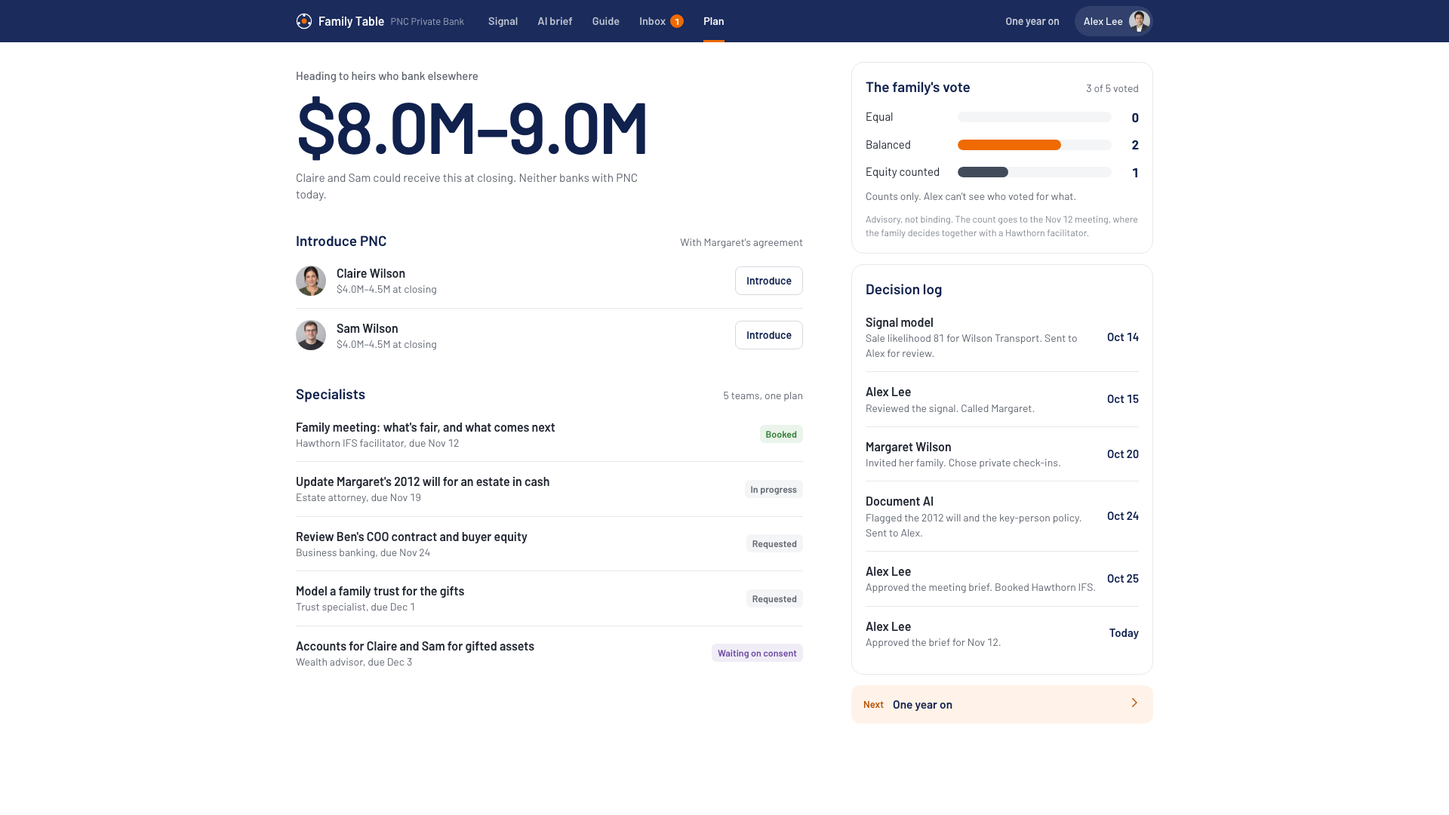
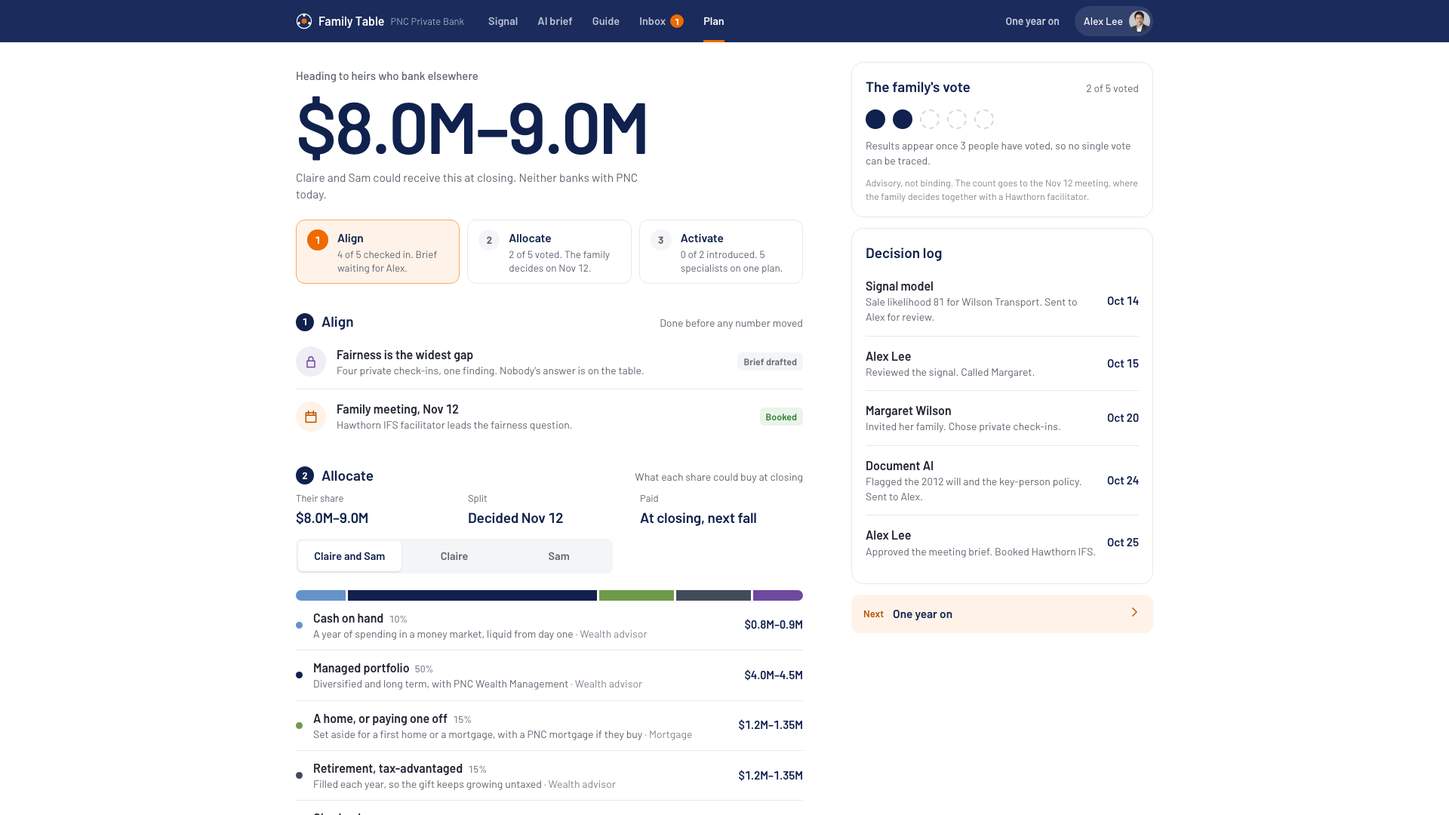
Documents in before the goals: one upload, AI reads, each fact lands in the plan
New me/margaret/docs screen ahead of setup. Eight documents land one by one,
six timed AI steps read them, the goals they feed fill as they go, and a
results panel hands off to the goals screen. Home, the preview and the tour
route through it; setup links back with "See what it read". Screenshot script
captures the empty and read states.

diff --git a/prototype/app.js b/prototype/app.js
@@ -16,7 +16,8 @@
   const fresh = () => ({ shared: [], optOut: false, approved: false, started: false, routed: {}, pick: "balanced", picked: {}, votes: {},
     answers: {}, intro: {}, invited: false, chapter: [], agreed: {}, msgs: [], replies: {}, drafts: {}, calls: {}, confirmed: {},
     shareReply: {}, tour: -1, pv: { value: 48, kids: 3, inBiz: 1 }, pvDocs: null, pvRead: false, pvFix: false, previewed: false, goals: ["fair", "live", "chapter"],
-    fairMeans: null, goalFix: {}, spend: 300, foundation: 2, keepName: false, tree: {}, pathSent: {}, presented: false });
+    fairMeans: null, goalFix: {}, spend: 300, foundation: 2, keepName: false, tree: {}, pathSent: {}, presented: false,
+    docsDone: false, docsNames: null, docsOwn: false });
   let state = fresh();
   try {
     const qp = new URLSearchParams(location.search);
@@ -29,7 +30,7 @@
   const set = patch => { Object.assign(state, patch); save(); render(); };
   // Preview: the documents are "read" (simulated) and the facts fill the screen; the person can fix any number.
   const readDocs = (names, own) => { Object.assign(state, { pvDocs: { names, own }, pvRead: true, previewed: true, pvFix: false, pv: Object.assign({}, S.preview.found) }); save(); render(true); };
-  const ui = { callOpen: false, slide: 0 };
+  const ui = { callOpen: false, slide: 0, intake: null };
   let sheet = { kind: null };
 
   // ---------- helpers ----------
@@ -179,7 +180,7 @@
       ? [["advisor", "Signal", "pulse"], ["advisor/align", "AI brief", "brief"], ["advisor/guide", "Guide", "guide"], ["advisor/inbox", "Inbox", "chat", n], ["advisor/plan", "Plan", "flag"]]
       : v ? [[`me/${v}`, "Home", "home"], [`me/${v}/checkin`, "Check-in", "lock"], [`me/${v}/options`, "Vote", "scale"], [`me/${v}/decide`, "Decide", "branch"], [`me/${v}/ask`, "Ask Alex", "chat"]] : [];
   }
-  const tabOf = r => r === "advisor/docs" ? "advisor/align" : r.replace(/\/vote$/, "/options").replace(/^(me\/\w+)\/(plan|setup)$/, "$1");
+  const tabOf = r => r === "advisor/docs" ? "advisor/align" : r.replace(/\/vote$/, "/options").replace(/^(me\/\w+)\/(plan|setup|docs)$/, "$1");
   function appbar() {
     const v = viewer(), who = v === "alex" ? `Alex Lee${avAlex(28)}` : v ? `${P[v].short}${av(P[v], 28)}` : `View as${ic("person", 18)}`;
     const cur = tabOf(route);
@@ -235,6 +236,8 @@
       hint: "PNC's own account data puts Wilson Transport at 81 out of 100, a year before closing. Tap Call Margaret.", target: '[data-act="start"]', done: () => state.started },
     { side: "Family", stage: "Align", route: "preview", title: "Margaret previews what's possible",
       hint: "Before she talks to anyone, she adds what she has and AI reads it. Tap Use the Wilsons' documents.", target: '[data-act="pv-sample"]', done: () => state.pvRead },
+    { side: "Family", stage: "Align", route: "me/margaret/docs", title: "Her documents go in. AI reads them.",
+      hint: "Eight documents, one upload. AI reads each one and connects it to a goal before she answers a single question. Tap Use the Wilsons' documents.", target: '[data-act="docs-go"]', done: () => state.docsDone },
     { side: "Family", stage: "Align", route: "me/margaret/setup", title: "Margaret sets her goals",
       hint: "AI ranked three goals from her documents and pre-filled each one. Margaret checks them and invites the family.", target: '[data-act="invite"]', done: () => state.invited },
     { side: "Family", stage: "Align", route: "me/claire/checkin", title: "Claire says what she's never said",
@@ -303,8 +306,11 @@
       <div class="caption">${pid === "ben" ? "In cash, plus your $1.5M of NorthPeak equity. " : ""}It depends on the split the family chooses. Closing is expected next fall.</div>`;
   }
   function invitePanel() {
-    if (!state.invited) return `<section class="panel invite"><span class="ic p">${ic("users")}</span><div><b>Set your goals, then bring your family in</b><p>Tom, Ben, Claire and Sam each get a private check-in. You'll see who has answered, never what they said.</p>
-      <a class="btn" href="#/me/margaret/setup">Set up your plan</a></div></section>`;
+    if (!state.invited) return state.docsDone
+      ? `<section class="panel invite"><span class="ic p">${ic("users")}</span><div><b>Your documents are read. Now set your goals</b><p>AI ranked three goals from them and pre-filled each one. Check them, then Tom, Ben, Claire and Sam each get a private check-in.</p>
+      <a class="btn" href="#/me/margaret/setup">Set up your plan</a></div></section>`
+      : `<section class="panel invite"><span class="ic p">${ic("doc")}</span><div><b>Add your documents, then set your goals</b><p>AI reads your statements, the offer, the register and your will, and fills in the plan. Then your family gets private check-ins.</p>
+      <a class="btn" href="#/me/margaret/docs">Add your documents</a></div></section>`;
     return `<section class="panel invite on"><div><b>Your family is taking part</b><p>${checkedIn()} of ${S.people.length} have checked in. Their answers stay private, even from you.</p>${voices()}</div></section>`;
   }
   function memberHome(pid) {
@@ -625,9 +631,80 @@
         <section class="panel"><div class="section-head"><h2>What changes with Family Table</h2></div>
           <div class="cmp"><div class="cmp-h"><span></span><span>Without a plan</span><span>With Family Table</span></div>${X.compare.map(([k, a, b]) => `<div class="cmp-r"><b>${k}</b><span>${a}</span><span>${b}</span></div>`).join("")}</div></section>
         <section class="panel"><div class="section-head"><h2>Your first month</h2></div><ol class="recap">${X.month.map(([w, t]) => `<li><span class="rc-ic">${ic("check", 14, 2.6)}</span><span class="tx"><b>${w}</b><span>${t}</span></span></li>`).join("")}</ol>
-          <a class="btn block" style="margin-top:14px" href="#/me/margaret/setup">Start with a PNC advisor</a></section>
+          <a class="btn block" style="margin-top:14px" href="#/me/margaret/docs">Start with a PNC advisor</a></section>
         <p class="micro faint">Illustrative ranges from a deal like the Wilsons'. A PNC tax specialist confirms real figures.</p>
       </aside></div></div>`;
+  }
+
+  // ---------- onboarding, step 0: documents in, AI reads, everything lands in the plan ----------
+  // Three states: nothing added yet; a timed run (ui.intake) that marks each document and each AI step in the DOM
+  // without re-rendering; and done (state.docsDone), which draws the same page with every mark already on.
+  let intakeTimers = [];
+  const stopIntake = () => { intakeTimers.forEach(clearTimeout); intakeTimers = []; ui.intake = null; };
+  const DOC_ROUTE = "me/margaret/docs";
+  function intakePage() {
+    const X = S.intake, run = ui.intake, done = state.docsDone, active = run || done;
+    const names = done ? state.docsNames : run ? run.names : null, own = done ? state.docsOwn : run ? run.own : false;
+    const docs = X.docs.map((d, i) => Object.assign({}, d, { name: names && names[i] ? names[i] : d.name }));
+    const readCount = done ? docs.length : 0;
+    const row = (d, i) => `<div class="dk-row ${done ? "up read" : ""} ${d.risk ? "flag" : ""}" data-doc="${i}" data-step="${d.step}" data-feeds="${d.feeds.join(" ")}">
+        <span class="file ${d.type.toLowerCase()}">${d.type}</span>
+        <span class="tx"><b>${esc(d.name)}</b><span class="dk-st">${done ? "Read" : d.src || "Waiting"}${d.pages ? ` · ${d.pages} pages` : ""}</span>
+          <span class="dk-bar" aria-hidden="true"><i></i></span>
+          <span class="dk-find">${d.finding}${d.risk ? ` <span class="badge r">${d.risk}</span>` : ""}</span></span>
+        <span class="dk-ic">${ic("check", 16, 2.6)}<span class="spin"></span></span></div>`;
+    const feedRow = f => { const mine = docs.filter(d => d.feeds.includes(f.id)).length;
+      return `<div class="row ${done ? "on" : ""}" data-feed="${f.id}" data-n="${mine}"><span class="ic">${ic(f.icon)}</span><span class="tx"><b>${f.label}</b><span>${f.line}</span></span><span class="rt">${done ? "Ready" : `0 of ${mine}`}</span></div>`; };
+    const dropzone = `<div class="pv-drop">
+          <label class="pv-drop-in" for="dk-files">${ic("doc", 26)}<b>Add what you have</b><span>Statements, the buyer's letter, the shareholder register, your will, any policy. Drop them all at once; AI sorts them.</span></label>
+          <input type="file" id="dk-files" multiple data-act="docs-files" class="visually-hidden">
+          <button class="btn block" data-act="docs-go">Use the Wilsons' documents</button></div>`;
+    return `<div class="page"><div class="cols"><div class="col-main">
+      <section class="hero"><div class="label">Before you set your goals</div><h1 class="title">${done ? "Your documents are read" : active ? "AI is reading your documents" : "Add your financial documents"}</h1>
+        <div class="caption">${done ? `${docs.length} documents, ${docs.reduce((s, d) => s + d.pages, 0)} pages. Every number below has a source. Check them, then set your goals.` : "AI reads them, pulls out the facts, and connects each one to your plan before you answer a single question. You check the result; nothing is decided for you."}</div>
+        ${!active ? dropzone : `${own ? `<p class="micro faint" style="margin-top:8px">Your files stayed on this device. In the prototype, AI reads the Wilsons' sample set instead.</p>` : ""}
+          ${done ? `<button class="linkbtn" data-act="docs-reset">Start over with other documents</button>` : ""}`}</section>
+      ${!active ? `<section class="section"><div class="pv-empty">Add your documents, or use the Wilsons', and watch AI read them: what each one says, and which goal it feeds.</div></section>` : `
+      <section class="section"><div class="section-head"><h2>Your documents</h2><span class="aside" data-dk-count>${readCount} of ${docs.length} read</span></div>
+        <div class="dk-list">${docs.map(row).join("")}</div></section>
+      <section class="section trace-wrap"><div class="section-head"><h2>What AI is doing</h2><span class="aside">Simulated AI, real formulas</span></div>
+        <ol class="trace dk-trace ${done ? "" : "playing"}">${X.steps.map(([t, b], k) => step(k, t, `<p>${b}</p>`, done ? "on" : "")).join("")}</ol></section>
+      ${done ? `<section class="section"><div class="section-head"><h2>What reached your plan</h2><span class="aside">From the documents</span></div>
+        <div class="rows">${[["What you keep at closing", money(net()), "Offer, less earnout, debt, fees and estimated tax"], ["Could go to the children", money(12), "Your plan's gift bucket, before the family decides the split"], ["Ben's buyer equity", money(1.5), "Shareholder register. The will doesn't say if it counts"], ["What you spend a year", "$300K", "Personal tax returns. Your $9.0M live-on bucket covers 30 years"]].map(([k, v, src]) => `<div class="row"><span class="ic g">${ic("check", 18, 2.4)}</span><span class="tx"><b>${k}</b><span>${src}</span></span><span class="rt">${v}</span></div>`).join("")}</div>
+        <div class="docrow"><span class="file">PDF</span><span class="tx"><b>3 documents need a specialist</b><span>The 2012 will, the key-person policy and the 2009 buy-sell agreement. Alex routes them; you'll see each one's finding in the AI brief.</span></span><span class="badge r">Flagged</span></div>
+        <a class="btn block dk-cta" href="#/me/margaret/setup">Continue to your goals</a>
+        <p class="micro faint" style="margin-top:10px">AI ranked three goals from these documents and pre-filled each one. The next screen is where you check them.</p></section>` : ""}`}
+      </div><aside class="col-side">
+        <section class="panel dk-feeds"><div class="section-head"><h2>Where each document goes</h2></div><div class="rows">${X.feeds.map(feedRow).join("")}</div>
+          <p class="micro faint" style="margin-top:8px">Your documents go to Alex at PNC, and only Alex. Your family sees the options they lead to, never the documents.</p></section>
+        ${!active ? `<section class="panel"><div class="section-head"><h2>Why documents first</h2></div><ol class="recap">${[["Fewer questions", "AI fills in what the paperwork already says. You confirm, instead of typing it twice."], ["Goals with numbers", "Each goal arrives pre-filled from your own figures, not a guess."], ["Problems found early", "An old will or a lapsed policy surfaces now, not at closing."]].map(([t, b]) => `<li><span class="rc-ic">${ic("check", 14, 2.6)}</span><span class="tx"><b>${t}</b><span>${b}</span></span></li>`).join("")}</ol></section>` : ""}
+      </aside></div></div>`;
+  }
+  // Timed run: uploads land one by one, then each AI step reads its documents and fills the goals it feeds.
+  function runIntake(names, own) {
+    stopIntake();
+    const X = S.intake; ui.intake = { names: X.docs.map((d, i) => names && names[i] ? names[i] : d.name), own };
+    render(); window.scrollTo({ top: 0, behavior: motionOK ? "smooth" : "auto" });
+    const T = ms => motionOK ? ms : 0, at = (ms, fn) => intakeTimers.push(setTimeout(() => { if (ui.intake && route === DOC_ROUTE) fn(); }, T(ms)));
+    const rows = () => [...app.querySelectorAll(".dk-row")], steps = () => [...app.querySelectorAll(".dk-trace .tr-step")];
+    const upGap = 320, upLen = 760, stepGap = 1500, stepLen = 1100, t1 = 300 + X.docs.length * upGap + upLen;
+    let readN = 0;
+    const markRead = el => { el.classList.add("read"); el.querySelector(".dk-st").textContent = "Read" + el.querySelector(".dk-st").textContent.replace(/^[^·]*/, "");
+      readN++;
+      const c = app.querySelector("[data-dk-count]"); if (c) c.textContent = `${readN} of ${X.docs.length} read`;
+      el.dataset.feeds.split(" ").forEach(f => { const fr = app.querySelector(`[data-feed="${f}"]`); if (!fr) return;
+        const got = rows().filter(r => r.classList.contains("read") && r.dataset.feeds.split(" ").includes(f)).length, all = +fr.dataset.n;
+        fr.querySelector(".rt").textContent = got >= all ? "Ready" : `${got} of ${all}`; fr.classList.toggle("on", got >= all); }); };
+    X.docs.forEach((d, i) => {
+      at(300 + i * upGap, () => { const el = rows()[i]; if (!el) return; el.classList.add("up"); el.querySelector(".dk-st").textContent = (d.src ? "Pulling from PNC" : "Uploading") + (d.pages ? ` · ${d.pages} pages` : ""); });
+      at(300 + i * upGap + upLen, () => { const el = rows()[i]; if (el) el.querySelector(".dk-st").textContent = (d.src ? "In from PNC" : "Uploaded, encrypted") + (d.pages ? ` · ${d.pages} pages` : ""); });
+    });
+    X.steps.forEach((s, k) => {
+      at(t1 + k * stepGap, () => { const el = steps()[k]; if (!el) return; el.classList.add("run"); if (k > 0 && el.getBoundingClientRect().bottom > innerHeight - 160) el.scrollIntoView({ block: "center", behavior: "smooth" }); });
+      at(t1 + k * stepGap + stepLen, () => { const el = steps()[k]; if (!el) return; el.classList.remove("run"); el.classList.add("on");
+        rows().forEach(r => { if (+r.dataset.step === k && !r.classList.contains("read")) markRead(r); }); });
+    });
+    at(t1 + X.steps.length * stepGap + 400, () => { const names = ui.intake.names, o = ui.intake.own; stopIntake(); set({ docsDone: true, docsNames: names, docsOwn: o }); setTimeout(() => { const c = app.querySelector(".dk-cta"); if (c) c.scrollIntoView({ block: "center", behavior: "smooth" }); }, 80); });
   }
 
   // ---------- onboarding: confirm the facts, choose and sharpen goals ----------
@@ -670,7 +747,7 @@
           ["Read your documents and the preview", `Three years of statements, the shareholder register and NorthPeak's letter. ${money(net())} at closing; ${money(12)} of it could go to the children.`],
           ["Ranked your goals", "Fairness first: one child stays with the buyer and two don't. Then what you live on, then what comes after 35 years of running the company."],
           ["Pre-filled each one", "From the numbers, not from guesses. Change any of them below."],
-        ].map(([t, b], k) => step(k, t, `<p>${b}</p>`)).join("")}</ol></section>
+        ].map(([t, b], k) => step(k, t, `<p>${b}${k === 0 ? ` <a href="#/me/margaret/docs">See what it read</a>` : ""}</p>`)).join("")}</ol></section>
       <section class="section recs"><div class="section-head"><h2>What AI recommends</h2><span class="aside">${sel.length} goals, in order</span></div>
         <div class="rec-list">${cards}</div>
         ${others.length ? `<p class="rf-q" style="margin-top:14px">Also considered. Tap one to add it; with three already picked, it takes third place.</p><div class="goals">${others.map(x => `<button class="goal" data-act="goal" data-id="${x.id}" aria-pressed="false"><span class="g-n">${ic(x.icon, 18)}</span><b>${x.label}</b></button>`).join("")}</div>` : ""}</section>
@@ -846,7 +923,7 @@
     else if (route === "year-one") html = yearOne();
     else if (route === "preview") html = previewPage();
     else if (v === "alex") html = ({ advisor: advSignal, "advisor/align": advAI, "advisor/docs": advAI, "advisor/inbox": advInbox, "advisor/plan": advPlan, "advisor/guide": advGuide }[route] || advSignal)();
-    else if (v) html = sub === "checkin" ? checkin(v) : sub === "options" || sub === "vote" ? options(v) : sub === "ask" ? askAlex(v) : sub === "plan" ? famPlan(v) : sub === "decide" ? decide(v) : sub === "setup" && v === "margaret" ? setupPage() : memberHome(v);
+    else if (v) html = sub === "checkin" ? checkin(v) : sub === "options" || sub === "vote" ? options(v) : sub === "ask" ? askAlex(v) : sub === "plan" ? famPlan(v) : sub === "decide" ? decide(v) : sub === "setup" && v === "margaret" ? setupPage() : sub === "docs" && v === "margaret" ? intakePage() : memberHome(v);
     else { html = splash(); bare = true; route = ""; }
     document.body.classList.toggle("story", route.startsWith("story/"));
     document.body.classList.toggle("onboarding", route === "");
@@ -892,6 +969,8 @@
     else if (a === "call" && v) { ui.callOpen = false; set({ calls: Object.assign({}, state.calls, { [v]: S.slots[+id] }) }); }
     else if (a === "confirm-call") set({ confirmed: Object.assign({}, state.confirmed, { [id]: true }) });
     else if (a === "pv-sample") readDocs(S.preview.docs, false);
+    else if (a === "docs-go") runIntake(null, false);
+    else if (a === "docs-reset") { stopIntake(); set({ docsDone: false, docsNames: null, docsOwn: false }); }
     else if (a === "pv-fix") set({ pvFix: !state.pvFix });
     else if (a === "pv-reset") set({ pvRead: false, pvDocs: null, pvFix: false });
     else if (a === "pv-kids") { const k = +id; set({ previewed: true, pv: Object.assign({}, state.pv, { preset: null, kids: k, inBiz: Math.min(state.pv.inBiz, k) }) }); }
@@ -932,11 +1011,12 @@
   document.addEventListener("change", e => {
     const el = e.target;
     if (el.dataset.act === "pv-value") { const y = scrollY; state.pv = Object.assign({}, state.pv, { value: +el.value }); state.previewed = true; save(); render(); scrollTo(0, y); }
+    if (el.dataset.act === "docs-files") { const names = [...el.files].map(f => f.name).slice(0, 8); runIntake(names.length ? names : null, names.length > 0); }
     if (el.dataset.act === "pv-files") { const names = [...el.files].map(f => f.name).slice(0, 6); readDocs(names.length ? names : S.preview.docs, names.length > 0); }
   });
   document.addEventListener("keydown", e => { if (e.key === "Escape" && sheet.kind) { sheet.kind = null; renderSheet(); } });
   window.addEventListener("hashchange", () => {
-    sheet.kind = null; ui.callOpen = false;
+    sheet.kind = null; ui.callOpen = false; if (ui.intake) stopIntake();
     const go = () => { render(true); window.scrollTo(0, 0); };
     if (motionOK && document.startViewTransition) document.startViewTransition(go); else go();
   });

diff --git a/prototype/styles.css b/prototype/styles.css
@@ -766,3 +766,39 @@ ul.pz-list { list-style: none; padding: 0; }
 .rec-edit .linkbtn.small { display: block; margin-top: 10px; font-size: 13.5px; min-height: 40px; }
 .rec-edit .seg { margin-top: 10px; background: var(--bg); }
 .rec-edit .seg button.on { background: var(--navy); color: #fff; box-shadow: none; }
+
+/* ---------- document intake: files land, AI reads, goals fill ---------- */
+.dk-list { display: grid; gap: 8px; margin-top: 10px; }
+.dk-row { display: flex; gap: 12px; align-items: flex-start; padding: 12px; border-radius: var(--r); border: 1px solid var(--line); background: var(--bg); transition: border-color .35s ease, background-color .35s ease; }
+.dk-row .file { background: var(--slate); }
+.dk-row .file.pnc { background: var(--navy); }
+.dk-row .file.scan { background: var(--purple); }
+.dk-row.flag.read .file { background: var(--neg); }
+.dk-row .tx { flex: 1; min-width: 0; }
+.dk-row .tx b { display: block; font-size: 15.5px; color: var(--text); overflow: hidden; text-overflow: ellipsis; white-space: nowrap; }
+.dk-st { display: block; font-size: 13.5px; color: var(--faint); margin-top: 2px; }
+.dk-row.up .dk-st { color: var(--sub); }
+.dk-bar { display: block; height: 5px; border-radius: 3px; background: var(--surface); margin-top: 8px; overflow: hidden; }
+.dk-bar i { display: block; height: 100%; width: 0; border-radius: 3px; background: var(--orange); transition: width .75s var(--ease), background-color .3s ease; }
+.dk-row.up .dk-bar i { width: 100%; }
+.dk-row.read .dk-bar i { background: var(--pos); }
+.dk-find { display: block; font-size: 14px; color: var(--sub); margin-top: 8px; line-height: 1.4; max-height: 0; opacity: 0; overflow: hidden; transform: translateY(4px); transition: opacity .45s ease, transform .45s var(--ease), max-height .45s var(--ease), margin-top .3s ease; }
+.dk-row:not(.read) .dk-find { margin-top: 0; }
+.dk-row.read .dk-find { max-height: 6em; opacity: 1; transform: none; }
+.dk-find .badge { margin-left: 4px; vertical-align: 1px; }
+.dk-row.read { border-color: transparent; background: var(--surface); }
+.dk-row.flag.read { background: var(--neg-50); }
+.dk-ic { width: 28px; height: 28px; border-radius: 50%; display: grid; place-items: center; flex: none; background: var(--surface); color: var(--faint); margin-top: 6px; transition: background-color .3s ease, color .3s ease; }
+.dk-ic > * { grid-area: 1 / 1; }
+.dk-ic svg { display: none; }
+.dk-ic .spin { width: 14px; height: 14px; }
+.dk-row.up:not(.read) .dk-ic { background: var(--orange-50); color: var(--orange); }
+.dk-row.up:not(.read) .dk-ic .spin { display: block; }
+.dk-row.read .dk-ic { background: var(--pos-50); color: var(--pos); }
+.dk-row.read .dk-ic svg { display: block; }
+.dk-feeds .row .ic { transition: background-color .35s ease, color .35s ease; }
+.dk-feeds .row .rt { font-size: 14px; font-weight: 500; color: var(--faint); transition: color .3s ease; }
+.dk-feeds .row.on .ic { background: var(--pos-50); color: var(--pos); }
+.dk-feeds .row.on .rt { color: var(--pos); font-weight: 600; }
+.dk-cta { margin-top: 16px; }
+.dk-trace.playing .tr-step.on .tr-body > b { color: var(--navy); }

diff --git a/video/src/shots.js b/video/src/shots.js
@@ -13,7 +13,7 @@ const VOTED = { ...MID, votes: { sam: "balanced" } };
 const ASKED = { ...VOTED, msgs: [{ id: "sam-demo", from: "sam", qi: 0, at: "Just now" }] };
 const REPLIED = { ...ASKED, replies: { "sam-demo": "At closing, expected next fall. Your share is $4.0M with an equal split and up to $4.5M if Ben's buyer equity counts. It can go to any bank. If you'd like an account next to the family's plan, I can introduce you to a PNC wealth advisor, with no obligation." } };
 const DESKTOP = [
-  ["", "splash"], ["preview", "preview"], ["me/margaret/setup", "me_margaret_setup", { fairMeans: "balanced" }], ["advisor/guide", "advisor_guide", MID],
+  ["", "splash"], ["preview", "preview"], ["me/margaret/docs", "me_margaret_docs"], ["me/margaret/docs", "me_margaret_docs_read", { docsDone: true }], ["me/margaret/setup", "me_margaret_setup", { fairMeans: "balanced" }], ["advisor/guide", "advisor_guide", MID],
   ["me/sam/decide", "me_sam_decide", { tree: { sam: { count: "balanced", pay: "trust", earn: "half" } } }], ["advisor", "advisor"], ["advisor/align", "advisor_align"], ["advisor/align", "advisor_align_approved", MID],
   ["advisor/inbox", "advisor_inbox", ASKED], ["advisor/plan", "advisor_plan", VOTED],
   ["me/margaret", "me_margaret"], ["me/margaret/plan", "me_margaret_plan"], ["me/tom", "me_tom"], ["me/ben", "me_ben"], ["me/claire", "me_claire"],
@@ -22,7 +22,7 @@ const DESKTOP = [
   ["story/hook", "story_hook"], ["story/cast", "story_cast"], ["story/problem", "story_problem"], ["story/sauce", "story_sauce"], ["story/close", "story_close"],
 ];
 const MOBILE = [
-  ["", "splash_m"], ["preview", "preview_m"], ["me/margaret/setup", "me_margaret_setup_m"], ["advisor/guide", "advisor_guide_m", MID],
+  ["", "splash_m"], ["preview", "preview_m"], ["me/margaret/docs", "me_margaret_docs_read_m", { docsDone: true }], ["me/margaret/setup", "me_margaret_setup_m"], ["advisor/guide", "advisor_guide_m", MID],
   ["me/sam/decide", "me_sam_decide_m", { tree: { sam: { count: "balanced", pay: "trust", earn: "half" } } }], ["year-one", "year_one_full_m"], ["advisor", "advisor_m"], ["advisor/align", "advisor_align_m"], ["advisor/inbox", "advisor_inbox_m", ASKED],
   ["me/margaret", "me_margaret_m"], ["me/sam", "me_sam_m"], ["me/claire/checkin", "me_claire_checkin_m", { shared: ["q1"] }],
   ["me/sam/options", "me_sam_options_m"], ["me/sam/options", "me_sam_voted_m", VOTED], ["me/sam/ask", "me_sam_ask_m", REPLIED], ["year-one", "year_one_m"],

diff --git a/prototype/data.js b/prototype/data.js
@@ -220,6 +220,15 @@ window.SEED = {
     { bucket: "invest", name: "Long-term portfolio", who: "The family", amt: 4.0, line: "Managed for the next generation" },
     { bucket: "invest", name: "Wilson family foundation", who: "Margaret", amt: 2.0, line: "With PNC's philanthropic advisory" },
   ],
+  // Activate: what each heir's share could buy at closing. Shares of the gift, so the mix scales with the split the
+  // family chooses. AI suggests it; Alex adjusts it with Claire and Sam after the introduction. Nothing is bought until they say so.
+  allocate: [
+    { id: "cash", label: "Cash on hand", pct: 0.10, line: "A year of spending in a money market, liquid from day one", via: "Wealth advisor", color: "#6593C9" },
+    { id: "portfolio", label: "Managed portfolio", pct: 0.50, line: "Diversified and long term, with PNC Wealth Management", via: "Wealth advisor", color: "#10214D" },
+    { id: "home", label: "A home, or paying one off", pct: 0.15, line: "Set aside for a first home or a mortgage, with a PNC mortgage if they buy", via: "Mortgage", color: "#6F9A4B" },
+    { id: "retire", label: "Retirement, tax-advantaged", pct: 0.15, line: "Filled each year, so the gift keeps growing untaxed", via: "Wealth advisor", color: "#424B5A" },
+    { id: "give", label: "Give back", pct: 0.10, line: "A donor-advised fund, in the family's name if they choose", via: "Philanthropic advisory", color: "#6D4AA0" },
+  ],
   services: ["Estate plan and family trust, updated for an estate in cash", "A yearly family meeting with Hawthorn IFS", "Business banking for Ben at NorthPeak"],
 
   // Private votes already cast before the demo starts. In production each vote sits in the member's own vault;
